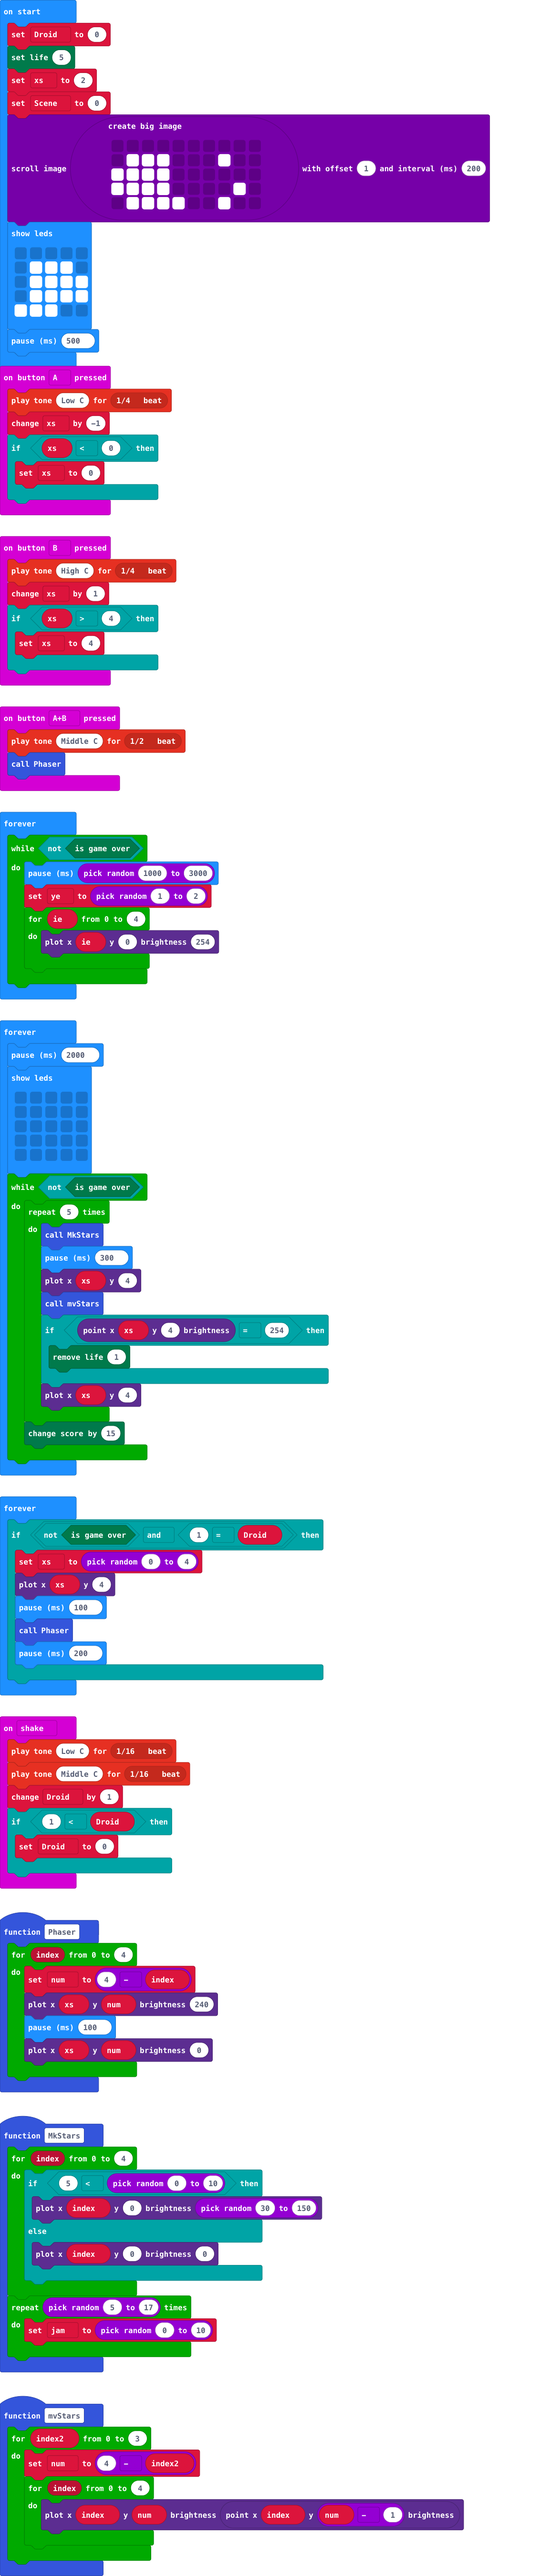
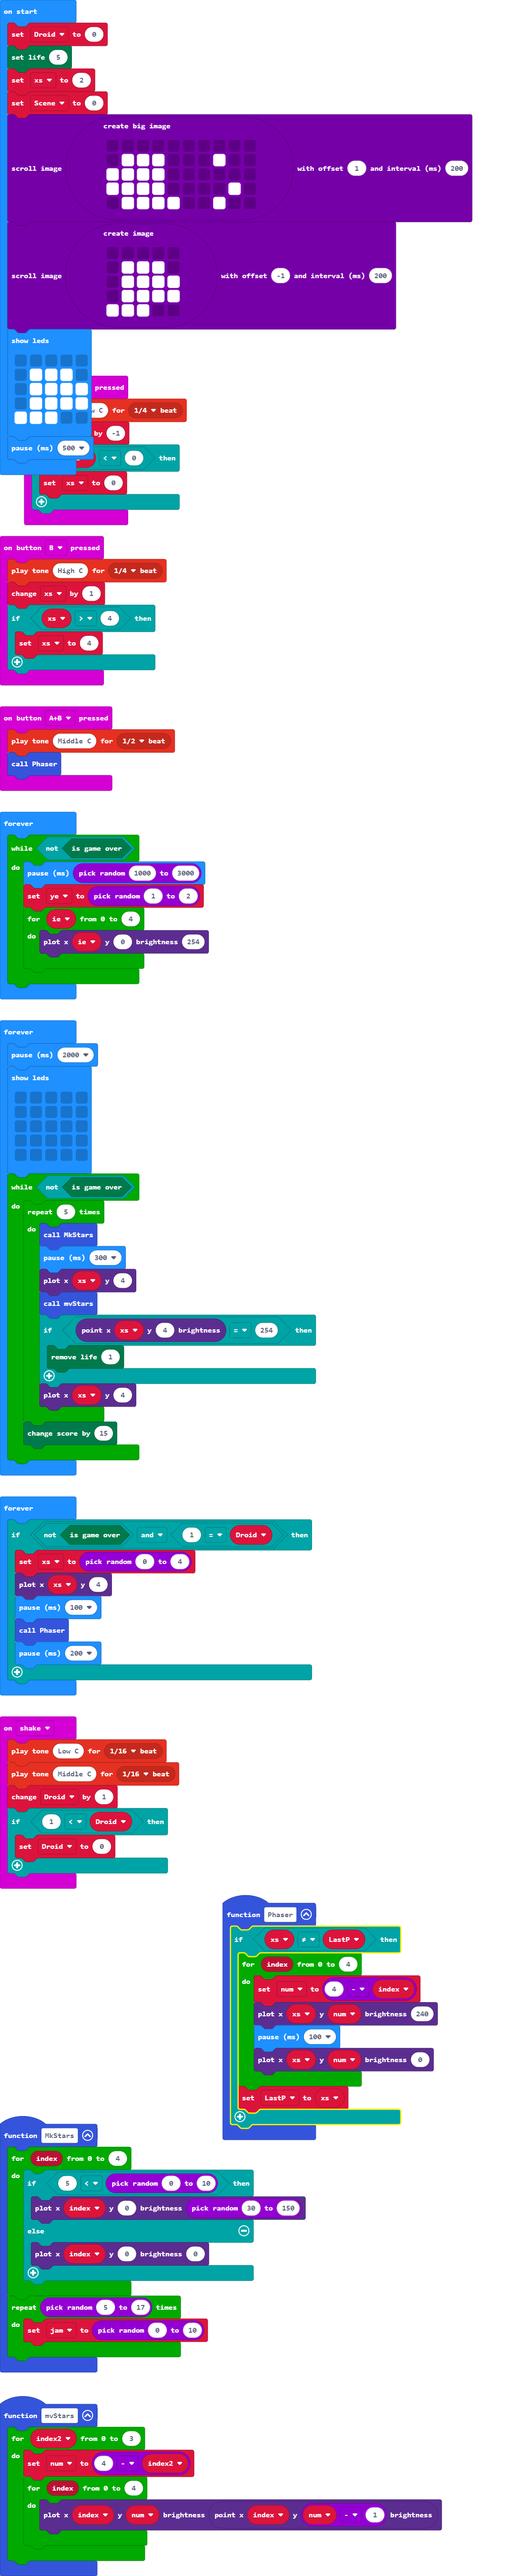
Update main.blocks, main.ts

diff --git a/main.ts b/main.ts
@@ -37,11 +37,14 @@ input.onGesture(Gesture.Shake, function () {
     }
 })
 function Phaser () {
-    for (let index = 0; index <= 4; index++) {
-        num = 4 - index
-        led.plotBrightness(xs, num, 240)
-        basic.pause(100)
-        led.plotBrightness(xs, num, 0)
+    if (xs != LastP) {
+        for (let index = 0; index <= 4; index++) {
+            num = 4 - index
+            led.plotBrightness(xs, num, 240)
+            basic.pause(100)
+            led.plotBrightness(xs, num, 0)
+        }
+        LastP = xs
     }
 }
 function mvStars () {
@@ -54,6 +57,7 @@ function mvStars () {
 }
 let ye = 0
 let num = 0
+let LastP = 0
 let jam = 0
 let xs = 0
 let Droid = 0
@@ -68,6 +72,13 @@ images.createBigImage(`
     # # # # . . . . # .
     . # # # # . . # . .
     `).scrollImage(1, 200)
+images.createImage(`
+    . . . . .
+    . # # # .
+    . # # # #
+    . # # # #
+    # # # . .
+    `).scrollImage(-1, 200)
 basic.showLeds(`
     . . . . .
     . # # # .
